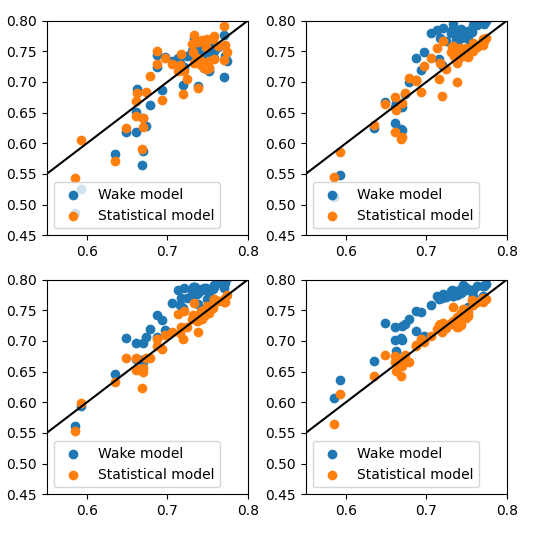
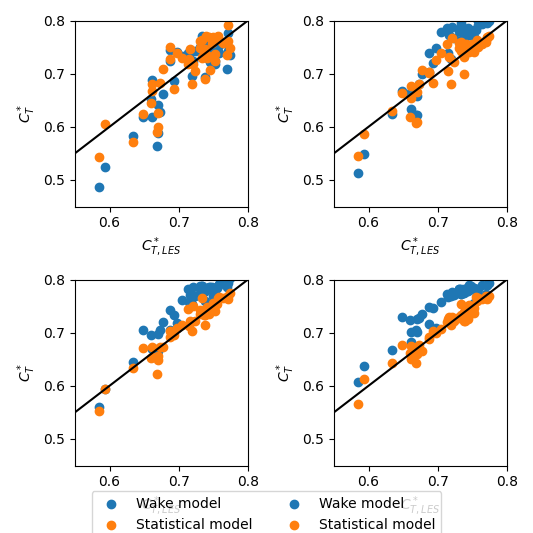
Multi fidelity GP code

diff --git a/multi_fidelity_GP.py b/multi_fidelity_GP.py
@@ -1,0 +1,83 @@
+import numpy as np
+import matplotlib.pyplot as plt
+
+import GPy
+import emukit.multi_fidelity
+import emukit.test_functions
+from emukit.model_wrappers.gpy_model_wrappers import GPyMultiOutputWrapper
+from emukit.multi_fidelity.models import GPyLinearMultiFidelityModel
+
+high_fidelity = emukit.test_functions.forrester.forrester
+low_fidelity = emukit.test_functions.forrester.forrester_low
+
+x_plot = np.linspace(0, 1, 200)[:, None]
+y_plot_l = low_fidelity(x_plot)
+y_plot_h = high_fidelity(x_plot)
+
+x_train_l = np.atleast_2d(np.random.rand(12)).T
+x_train_h = np.atleast_2d(np.random.permutation(x_train_l)[:6])
+y_train_l = low_fidelity(x_train_l)
+y_train_h = high_fidelity(x_train_h)
+
+from emukit.multi_fidelity.convert_lists_to_array import convert_x_list_to_array, convert_xy_lists_to_arrays
+
+X_train, Y_train = convert_xy_lists_to_arrays([x_train_l, x_train_h], [y_train_l, y_train_h])
+
+## Construct a linear multi-fidelity model
+
+kernels = [GPy.kern.RBF(1), GPy.kern.RBF(1)]
+lin_mf_kernel = emukit.multi_fidelity.kernels.LinearMultiFidelityKernel(kernels)
+gpy_lin_mf_model = GPyLinearMultiFidelityModel(X_train, Y_train, lin_mf_kernel, n_fidelities=2)
+gpy_lin_mf_model.mixed_noise.Gaussian_noise.fix(0)
+gpy_lin_mf_model.mixed_noise.Gaussian_noise_1.fix(0)
+
+lin_mf_model = model = GPyMultiOutputWrapper(gpy_lin_mf_model, 2, n_optimization_restarts=5)
+
+## Fit the model
+  
+lin_mf_model.optimize()
+
+## Convert x_plot to its ndarray representation
+
+X_plot = convert_x_list_to_array([x_plot, x_plot])
+X_plot_l = X_plot[:len(x_plot)]
+X_plot_h = X_plot[len(x_plot):]
+
+## Compute mean predictions and associated variance
+
+lf_mean_lin_mf_model, lf_var_lin_mf_model = lin_mf_model.predict(X_plot_l)
+lf_std_lin_mf_model = np.sqrt(lf_var_lin_mf_model)
+hf_mean_lin_mf_model, hf_var_lin_mf_model = lin_mf_model.predict(X_plot_h)
+hf_std_lin_mf_model = np.sqrt(hf_var_lin_mf_model)
+
+## Create standard GP model using only high-fidelity data
+
+kernel = GPy.kern.RBF(1)
+high_gp_model = GPy.models.GPRegression(x_train_h, y_train_h, kernel)
+high_gp_model.Gaussian_noise.fix(0)
+
+## Fit the GP model
+
+high_gp_model.optimize_restarts(5)
+
+## Compute mean predictions and associated variance
+
+hf_mean_high_gp_model, hf_var_high_gp_model  = high_gp_model.predict(x_plot)
+hf_std_hf_gp_model = np.sqrt(hf_var_high_gp_model)
+
+plt.figure(figsize=(12, 8))
+
+plt.fill_between(x_plot.flatten(), (hf_mean_lin_mf_model - 1.96*hf_std_lin_mf_model).flatten(), 
+                 (hf_mean_lin_mf_model + 1.96*hf_std_lin_mf_model).flatten(), facecolor='y', alpha=0.3)
+plt.fill_between(x_plot.flatten(), (hf_mean_high_gp_model - 1.96*hf_std_hf_gp_model).flatten(), 
+                 (hf_mean_high_gp_model + 1.96*hf_std_hf_gp_model).flatten(), facecolor='k', alpha=0.1)
+
+plt.plot(x_plot, y_plot_h, color='r')
+plt.plot(x_plot, hf_mean_lin_mf_model, '--', color='y')
+plt.plot(x_plot, hf_mean_high_gp_model, 'k--')
+plt.scatter(x_train_h, y_train_h, color='r')
+plt.xlabel('x')
+plt.ylabel('f (x)')
+plt.legend(['True Function', 'Linear Multi-fidelity GP', 'High fidelity GP'])
+plt.title('Comparison of linear multi-fidelity model and high fidelity GP')
+plt.savefig('multi_fidelity_GP.png')

diff --git a/gp_cross_validation.py b/gp_cross_validation.py
@@ -52,28 +52,34 @@ ax[0,0].scatter(training_data[:,3], ctstar_statistical_model[:,0], label = 'Stat
 ax[0,0].plot([0.55,0.8],[0.55,0.8], c='k')
 ax[0,0].set_xlim([0.55,0.8])
 ax[0,0].set_ylim([0.45,0.8])
-ax[0,0].legend()
+ax[0,0].set_ylabel(r'$C_T^*$')
+ax[0,0].set_xlabel(r'$C_{T,LES}^*$')
 
 ax[0,1].scatter(training_data[:,3], ctstar_wake_model[:,1], label = 'Wake model')
 ax[0,1].scatter(training_data[:,3], ctstar_statistical_model[:,1], label = 'Statistical model')
 ax[0,1].plot([0.55,0.8],[0.55,0.8], c='k')
 ax[0,1].set_xlim([0.55,0.8])
 ax[0,1].set_ylim([0.45,0.8])
-ax[0,1].legend()
+ax[0,1].set_ylabel(r'$C_T^*$')
+ax[0,1].set_xlabel(r'$C_{T,LES}^*$')
 
 ax[1,0].scatter(training_data[:,3], ctstar_wake_model[:,2], label = 'Wake model')
 ax[1,0].scatter(training_data[:,3], ctstar_statistical_model[:,2], label = 'Statistical model')
 ax[1,0].plot([0.55,0.8],[0.55,0.8], c='k')
 ax[1,0].set_xlim([0.55,0.8])
 ax[1,0].set_ylim([0.45,0.8])
-ax[1,0].legend()
+ax[1,0].set_ylabel(r'$C_T^*$')
+ax[1,0].set_xlabel(r'$C_{T,LES}^*$')
 
 ax[1,1].scatter(training_data[:,3], ctstar_wake_model[:,3], label = 'Wake model')
 ax[1,1].scatter(training_data[:,3], ctstar_statistical_model[:,3], label = 'Statistical model')
 ax[1,1].plot([0.55,0.8],[0.55,0.8], c='k')
 ax[1,1].set_xlim([0.55,0.8])
 ax[1,1].set_ylim([0.45,0.8])
-ax[1,1].legend()
+ax[1,1].set_ylabel(r'$C_T^*$')
+ax[1,1].set_xlabel(r'$C_{T,LES}^*$')
 
+fig.legend(bbox_to_anchor=(0.5,-0.1), loc="lower center", 
+                bbox_transform=fig.transFigure, ncol=2)
 plt.tight_layout()
 plt.savefig('statistical_model_results.png')
